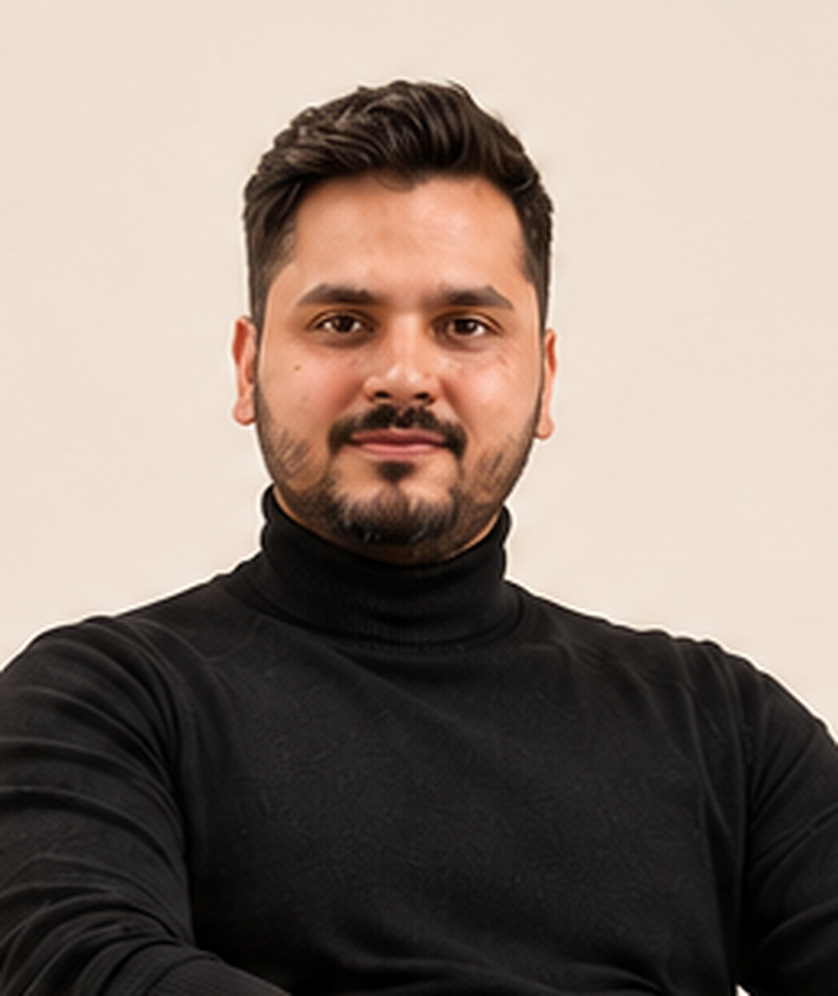
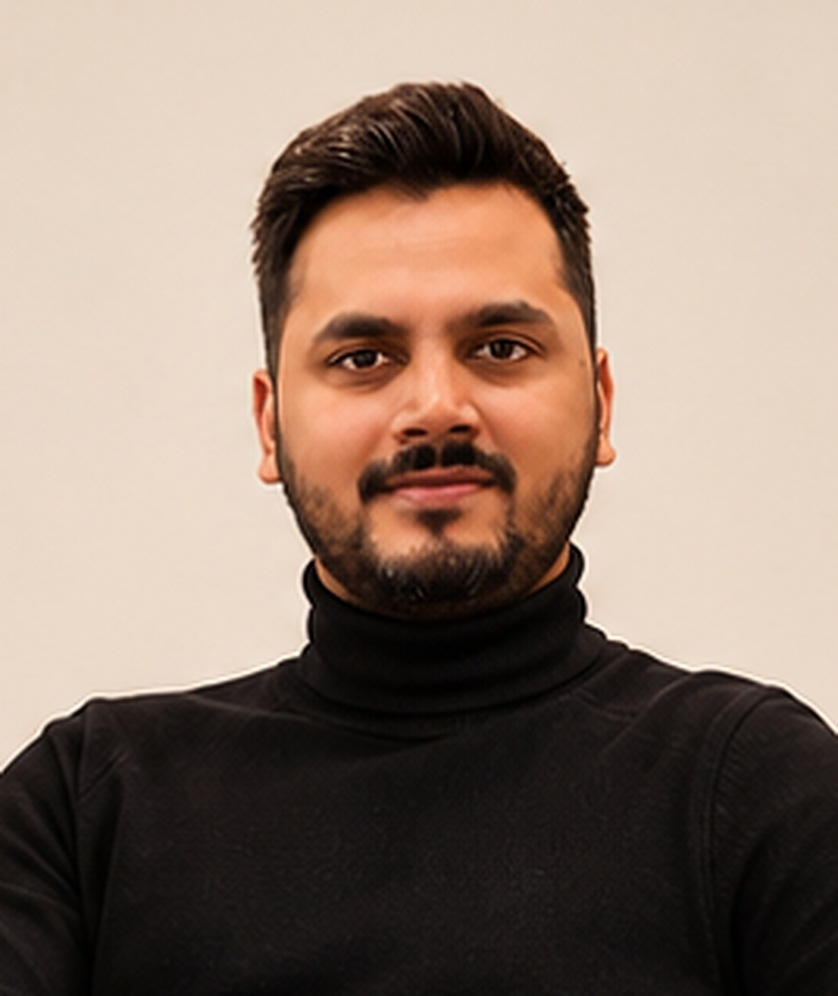
Our Team: new photos for Bilal and Ahsan
Claude-Session: https://claude.ai/code/session_01ULmEauHV8F9QWj7dLHgBAa

diff --git a/lib/team.ts b/lib/team.ts
@@ -39,7 +39,7 @@ export const team: Member[] = [
       ],
       workedWith: "Worked With",
       linkedin: "https://www.linkedin.com/in/bilalmashkoor/",
-      photo: { scene: "/figma/bilal-scene.jpg", card: "/figma/bilal-card.jpg", left: 0.53906, top: 0.12236, focus: 0.675, phoneTop: 0.01, bg: "#ebe0d1" },
+      photo: { scene: "/figma/bilal-scene.jpg", card: "/figma/bilal-card.jpg", left: 0.6419, top: 0.1154, focus: 0.7253, phoneTop: 0, bg: "#e3d0be" },
       clients: [
         { name: "MobilinkBank", logo: "mobilink-bank", x: 287, y: 773.63, w: 28.71 },
         { name: "Norsk Global", logo: "norsk-global", x: 344.44, y: 773.63, w: 84.47 },
@@ -70,7 +70,7 @@ export const team: Member[] = [
       ],
       workedWith: "Worked With",
       linkedin: "https://www.linkedin.com/in/ahsan-mahmood-9b6a76b0/",
-      photo: { scene: "/figma/ahsan-scene.jpg", card: "/figma/ahsan-card.jpg", left: 0.596, top: 0.08, focus: 0.68, phoneTop: 0.045, bg: "#f6f4f5" },
+      photo: { scene: "/figma/ahsan-scene.jpg", card: "/figma/ahsan-card.jpg", left: 0.6318, top: 0.1029, focus: 0.7151, phoneTop: 0.013, bg: "#fcfcfc" },
       clients: [
         { name: "PwC", logo: "pwc" },
         { name: "IMC Worldwide" },
